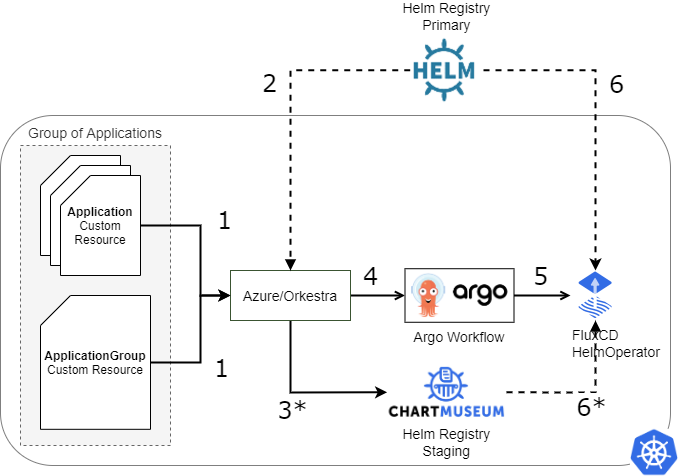
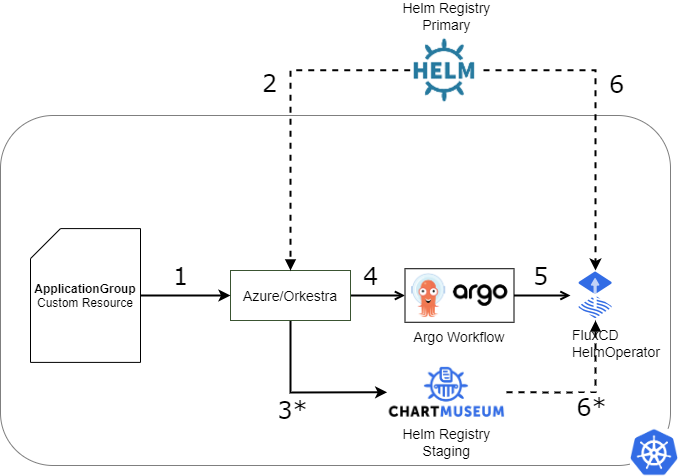
Updated docs

diff --git a/README.md b/README.md
@@ -27,7 +27,7 @@ For getting started you will need,
 - `helm` - Helm client
 - (_optional_) `argo` - Argo workflow client (follow the instructions to install the binary at https://github.com/argoproj/argo/releases)
 
-Install the `ApplicationGroup` and `Application` custom resource definitions (CRDs) using `make install`
+Install the `ApplicationGroup` and custom resource definitions (CRDs) using `make install`
 
 ```console
 /home/nitishm/go/bin/controller-gen "crd:trivialVersions=true" rbac:roleName=manager-role webhook paths="./..." output:crd:artifacts:config=config/crd/bases
@@ -112,9 +112,9 @@ To solve the complex application orchestration problem Orkestra builds a [Direct
 
 <p align="center"><img src="./assets/orkestra-core.png" width="750x" /></p>
 
-1. Submit `Application` and `ApplicationGroup` CRs
-2. For each `Application` in `ApplicationGroup` download Helm chart from “primary” Helm Registry
-3. (*optional) For each dependency in the `Application` chart, if dependency chart is embedded in `charts/` directory, push to ”staging” Helm Registry (Chart-museum).
+1. Submit `ApplicationGroup` CRs
+2. For each application in `ApplicationGroup` download Helm chart from “primary” Helm Registry
+3. (*optional) For each dependency in the Application chart, if dependency chart is embedded in `charts/` directory, push to ”staging” Helm Registry (Chart-museum).
 4. Generate and submit Argo Workflow DAG
 5. (Executor nodes only) Submit and probe deployment state of `HelmRelease` CR.
 6. Fetch and deploy Helm charts referred to by each `HelmRelease` CR to the Kubernetes cluster.
@@ -140,7 +140,7 @@ Try out the examples in [examples](./examples)
 
 ### Functional
 
-- [ ] Handling of `Application`, `ApplicationGroup` UPDATE & DELETE reconcilation events : [#64](https://github.com/Azure/Orkestra/issues/64), [#59](https://github.com/Azure/Orkestra/issues/59)
+- [ ] Handling of `ApplicationGroup` UPDATE & DELETE reconcilation events : [#64](https://github.com/Azure/Orkestra/issues/64), [#59](https://github.com/Azure/Orkestra/issues/59)
 
 ### Features
 

diff --git a/docs/SEQUENCE.md b/docs/SEQUENCE.md
@@ -1,6 +1,8 @@
+# > **Out of date**  as of 02/22/2021 - *`Application` custom resource has been deprecated*
 # Sequence Diagrams
 
 ## Submitting an Application Group to a Kubernetes Cluster
+
 
 <p align="center"><img src="../assets/submit-sequence.png" width="1000x" /></p>
 
